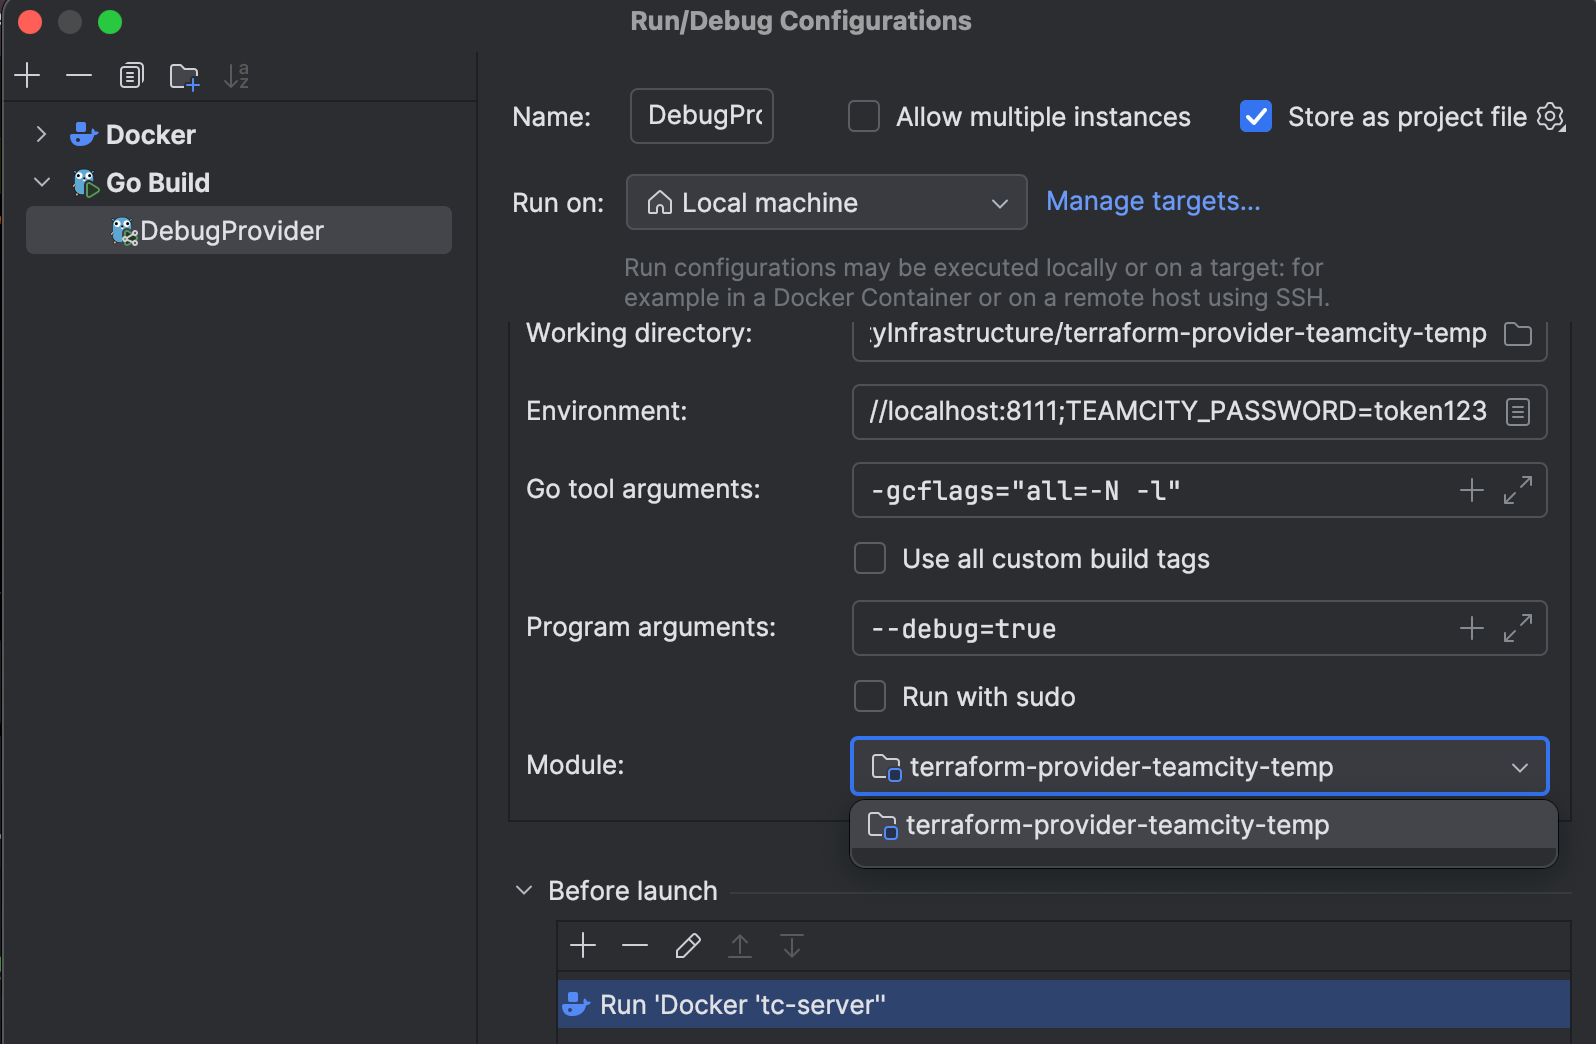
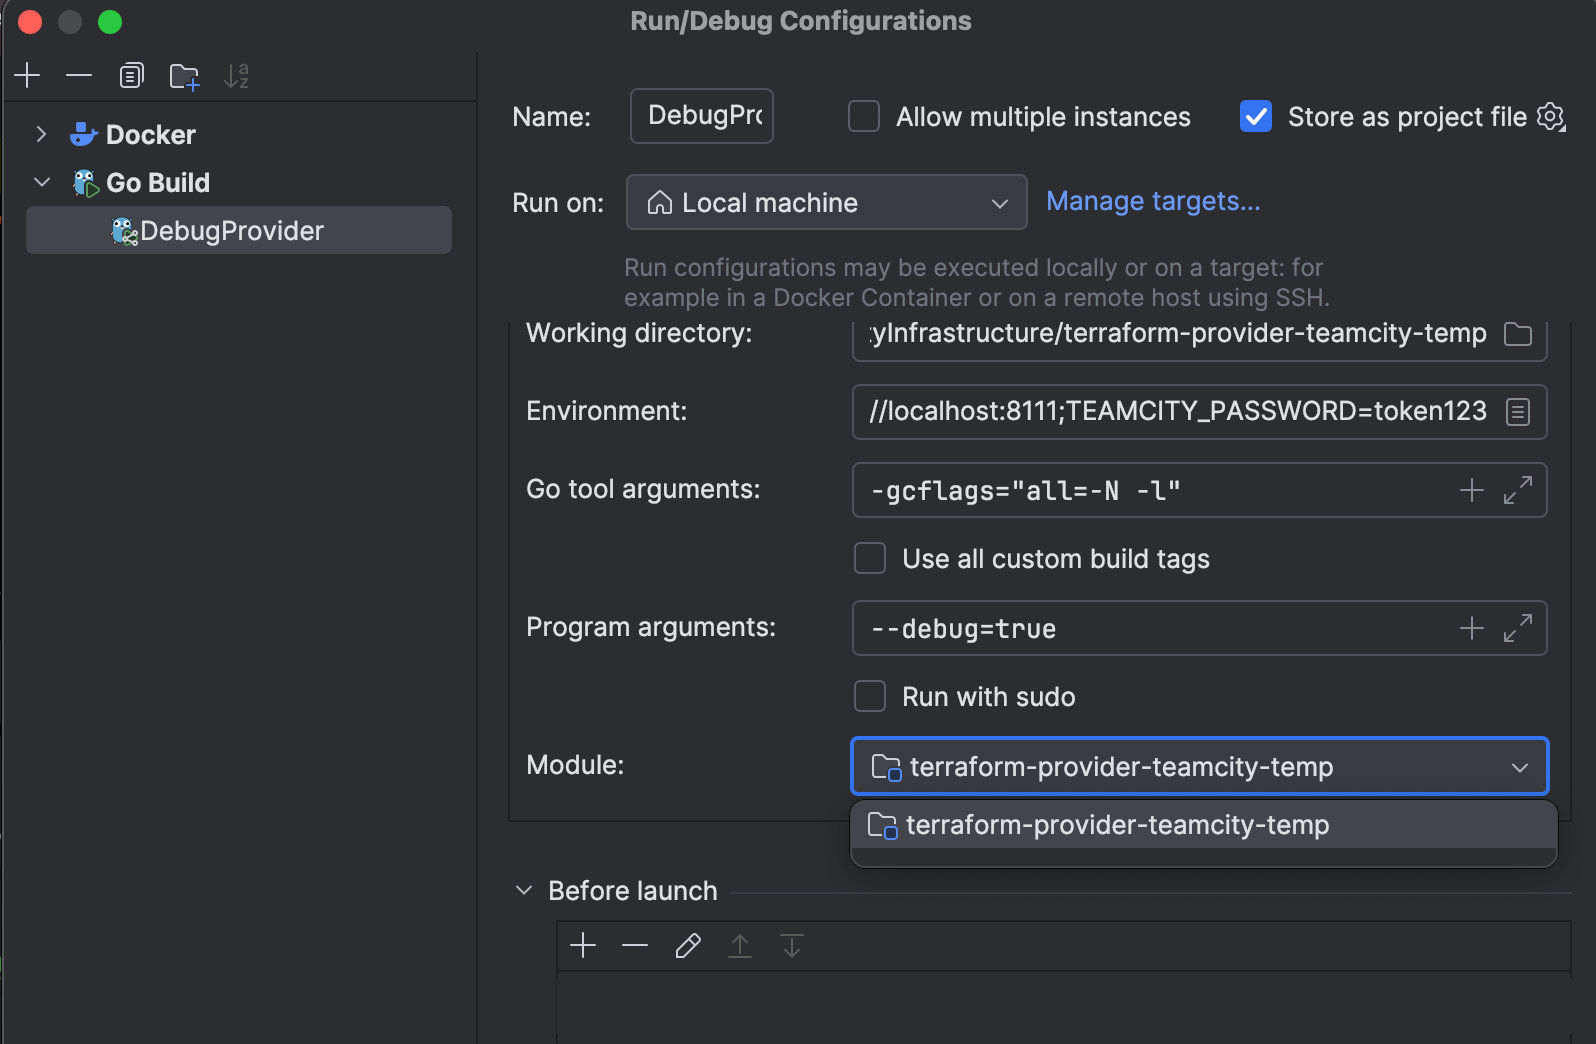
[minor] Improve local developing guidelines and add swagger UI run configuration

Changed region(s): [[0.3377, 0.9195, 0.9825, 1.0]]

diff --git a/README.md b/README.md
@@ -95,8 +95,9 @@ This project is licensed under the Mozilla Public License 2.0. For more informat
 
 ### To debug provider:
 
-1. Open the `DebugProvider` run configuration and make sure the correct module and docker run configuration are chosen:![](examples/0-empty_development/images/img.png)
-2. Execute in debug mode this `DebugProvider` run configuration. It should start a TeamCity container with pre-defined token. You will see something like:
+1. Run TeamCity server of preferred version via docker-compose.yml file. It should start a TeamCity container with pre-defined token. (There is a `tc-server` run configuration)
+2. Open the `DebugProvider` run configuration and make sure the correct module is chosen:![](examples/0-empty_development/images/img.png)
+2. Execute in debug mode this `DebugProvider` run configuration. You will see something like:
 
 ```
 Provider started. To attach Terraform CLI, set the TF_REATTACH_PROVIDERS environment variable with the following:
@@ -121,3 +122,6 @@ go test -count=1 -v ./...
 ### Debug some test:
 There is a GoLand run configuration where you can debug a test package or chose a specific test to run using Pattern like `^\QTestAccProject_basic\E$`:
 ![](examples/0-empty_development/images/DebugTest.png)
+
+### Use Swagger UI to work with TeamCity rest API:
+When TeamCity server is running, use `Run Swagger UI` configuration and go to http://localhost:8080/
